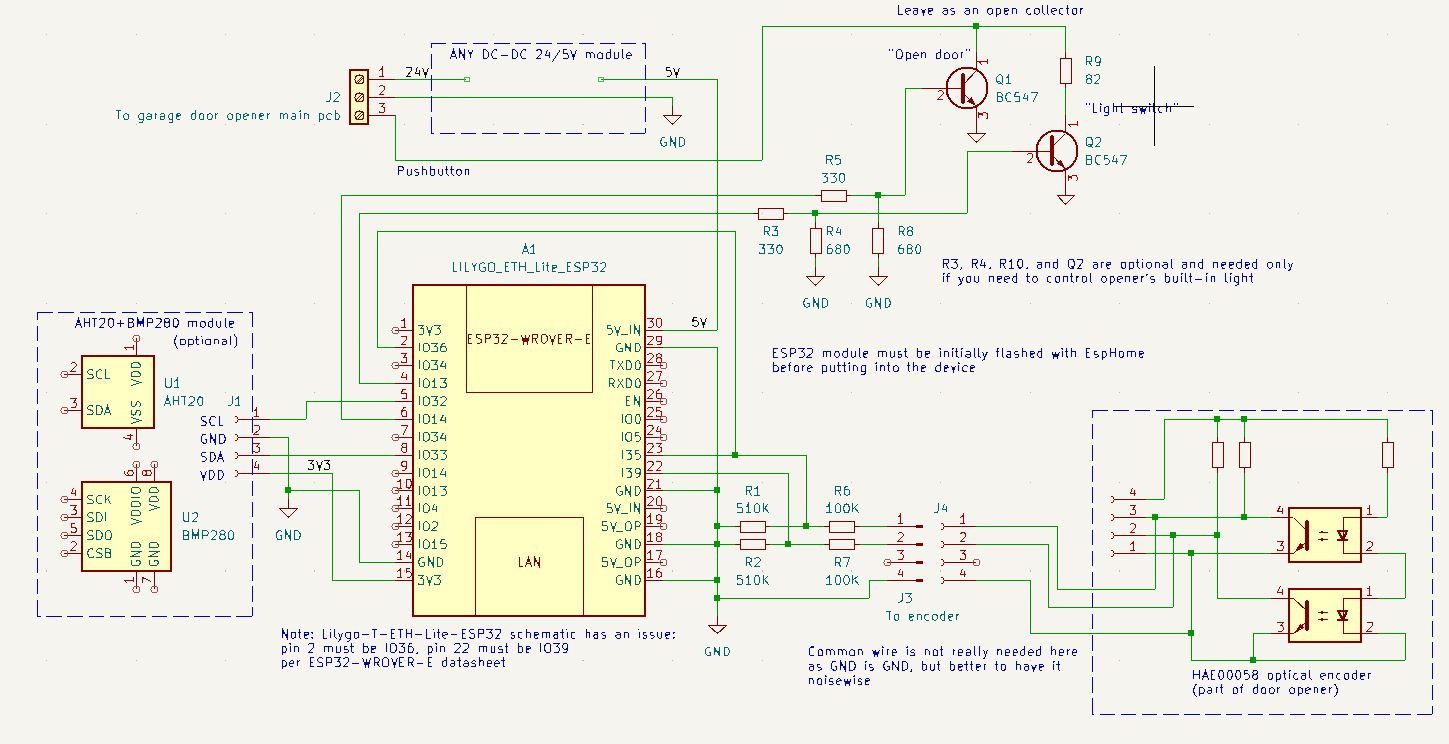
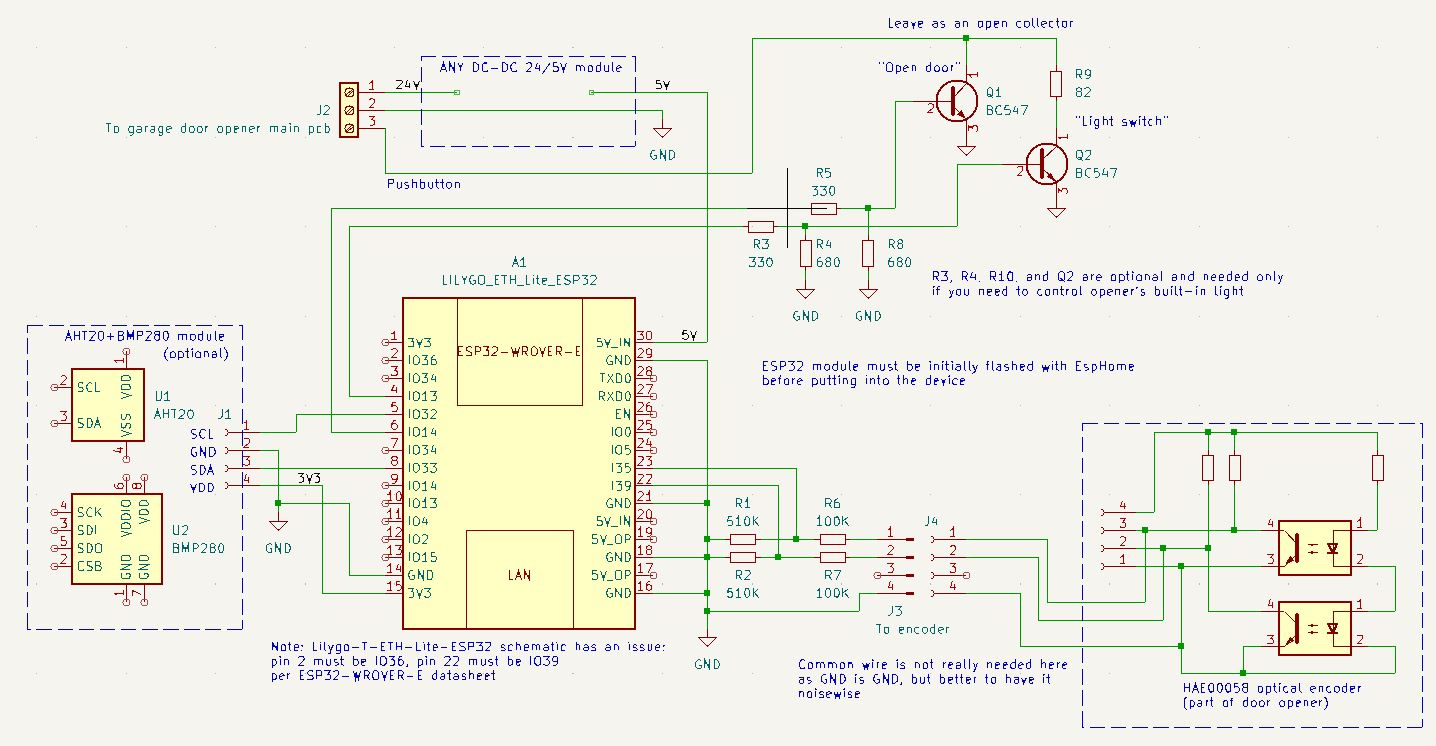
Use same pin for encoder and pulse counter

diff --git a/readme.md b/readme.md
@@ -10,7 +10,7 @@ Key features include:
 cable if LAN communication is used.
 - No additional sensors are required to monitor door state/position.
 - No relays or other switching devices are needed.
-- In its minimal configuration, it requires only 3 input and 1 output pins.
+- In its minimal configuration, it requires only 2 input and 1 output pins.
 - Additional ESPHome sensors can be added.
 - Displays not only open/closed positions but also opening/closing movements. 
 It can detect mechanical failures and when the door has been open for an extended period.
@@ -83,9 +83,9 @@ AHT20+BMP280 module is optional, as well as the circuit for light switch.
 
 Author's device is based on LILYGO T-ETH-Lite module as LAN connection was needed, but in
 general any ESP32 module can be used. Just define proper pins in the yml file. The mandatory
-thing is to assign `encoder_pulse_counter` sensor to hardware pulse counter pin. Usually it
-is marked as RTC in datasheets. This pin must be connected to one of encoder's pins (does 
-not really matter which of two). IO35 and IO36 on this schematic diagram.
+thing is to assign `encoder_pulse_counter` sensor (and one of the encoder inputs) to a hardware 
+pulse counter pin. Usually it is marked as RTC in datasheets. In this device it is IO35 on 
+the schematic diagram.
 
 
 ## Setting up ##
